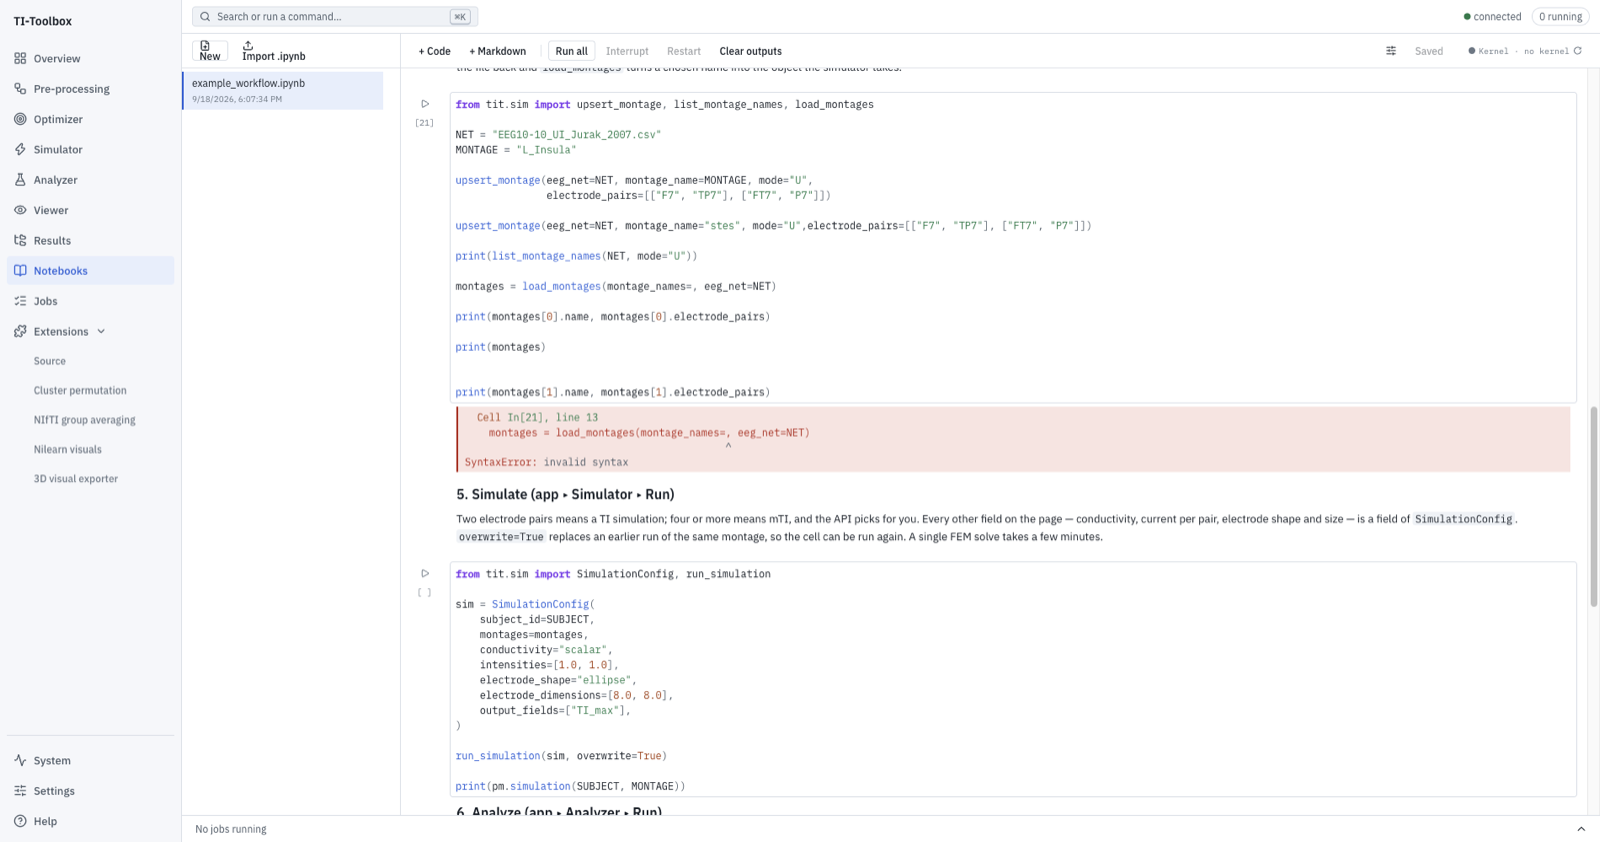
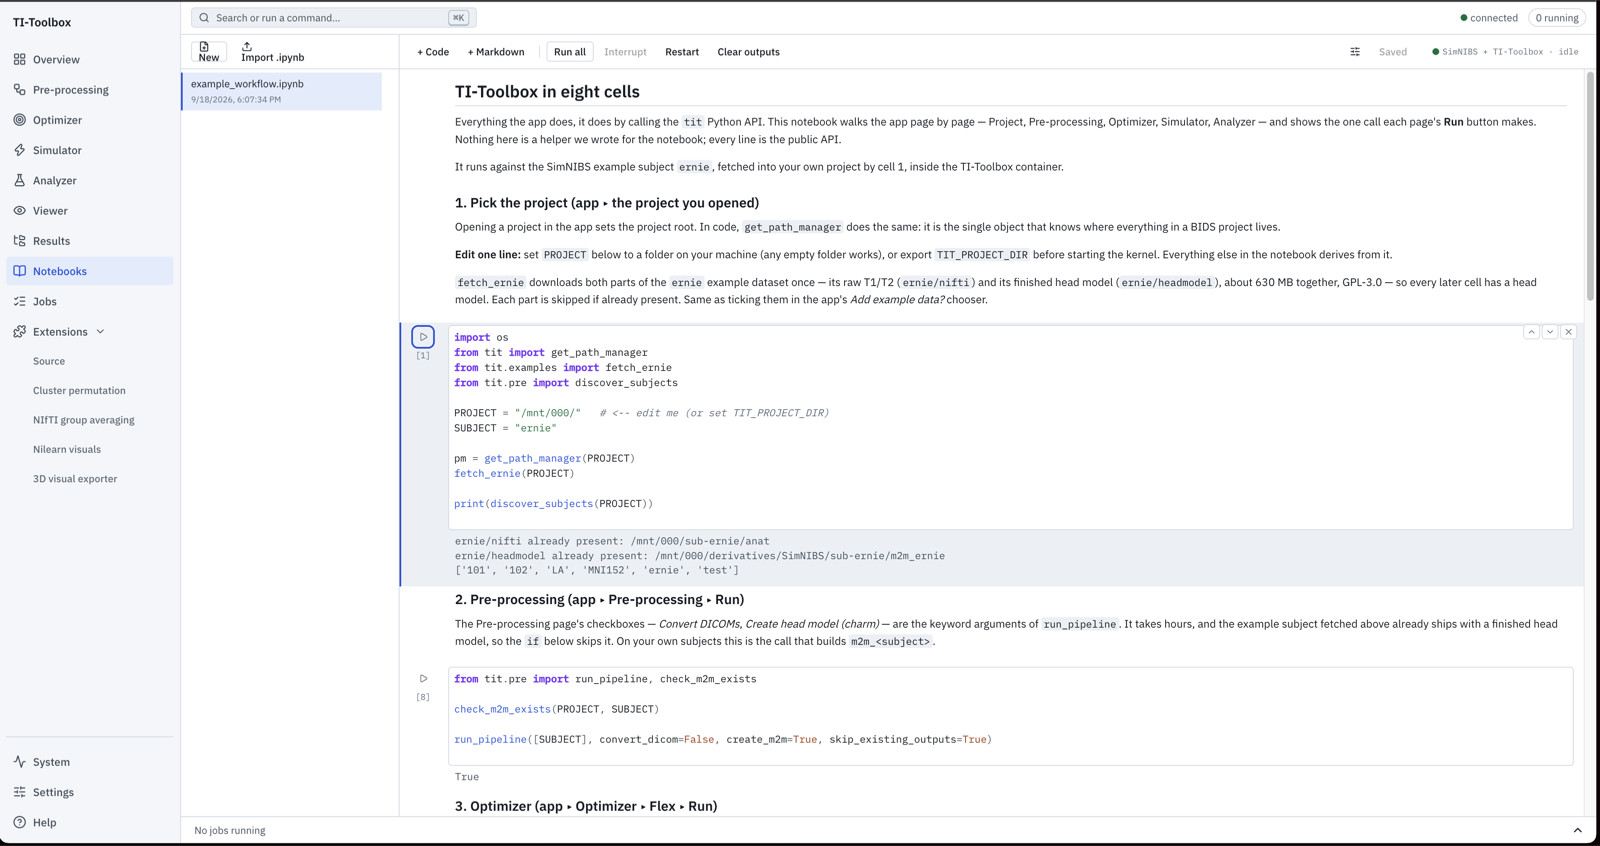
docs: Overview and Notebooks screenshots show a loaded project and a clean example run
The maintainer's captures replace the spec's loading-state Overview and the notebook frame that showed a SyntaxError; captions describe the storage breakdown and the first cell's output.

Verified: python3 dev/documentation_policy.py; jekyll build; python3 docs/tests/check_assets.py <site>.

diff --git a/docs/wiki/overview.md b/docs/wiki/overview.md
@@ -9,8 +9,8 @@ permalink: /wiki/overview/
 The app opens on a welcome Overview. Enter or **Browse…** to your project directory, then
 **Open project**. Docker must be running. Project tools stay disabled until a project is open.
 
-<img src="{{ site.baseurl }}/assets/imgs/v3/overview-project.png" alt="Overview with project 000 open: the subject table, the most recent analyzer jobs for subject 101, and a year of job activity" style="width: 100%; max-width: 1000px;">
-<em>Once connected, Overview shows what every subject has, the most recent jobs and the project's activity.</em>
+<img src="{{ site.baseurl }}/assets/imgs/v3/overview-project.png" alt="Overview with project 000 open: six subjects with the outputs each has, recent analyzer jobs, project storage by kind and a year of job activity" style="width: 100%; max-width: 1000px;">
+<em>Once connected, Overview shows what every subject has, the most recent jobs, where the project's disk space goes and its job activity.</em>
 
 **Switch project** loads another project in a fresh session; the current container is stopped
 once you confirm. If another TI-Toolbox container is already running you choose whether to

diff --git a/docs/wiki/notebooks.md b/docs/wiki/notebooks.md
@@ -11,8 +11,8 @@ Notebooks are ordinary `.ipynb` files in your project, under
 `<project>/code/ti-toolbox/notebooks/`. Saving round-trips the document, so a notebook edited here
 and a notebook edited in Jupyter Lab produce the same file.
 
-<img src="{{ site.baseurl }}/assets/imgs/v3/notebooks-example.png" alt="The example_workflow notebook open in the Notebooks page: code cells that load montages and configure a simulation, with the cell toolbar and kernel status above" style="width: 100%; max-width: 1000px;">
-<em>The seeded worked example open against a real project. Each cell mirrors one page of the app.</em>
+<img src="{{ site.baseurl }}/assets/imgs/v3/notebooks-example.png" alt="The example_workflow notebook, TI-Toolbox in eight cells, open in the Notebooks page: the first cell has run and listed the project's subjects, on the SimNIBS + TI-Toolbox kernel" style="width: 100%; max-width: 1000px;">
+<em>The seeded worked example, run against a real project. Each cell makes the same call as one page of the app.</em>
 
 ## Editing
 

diff --git a/docs/index.md b/docs/index.md
@@ -70,7 +70,7 @@ layout: home
         <p>TetraVox: explore anatomy, fields and diffusion tensors in the 3D viewer</p>
       </div>
       <div class="carousel-slide">
-        <img src="{{ site.baseurl }}/assets/imgs/v3/notebooks-example.png" alt="The worked example notebook open in the Notebooks page, with code cells for montages and a simulation">
+        <img src="{{ site.baseurl }}/assets/imgs/v3/notebooks-example.png" alt="The worked example notebook open in the Notebooks page, with its first cell run against the project">
         <p>Notebooks: work interactively with your project and SimNIBS Python</p>
       </div>
       <div class="carousel-slide">
